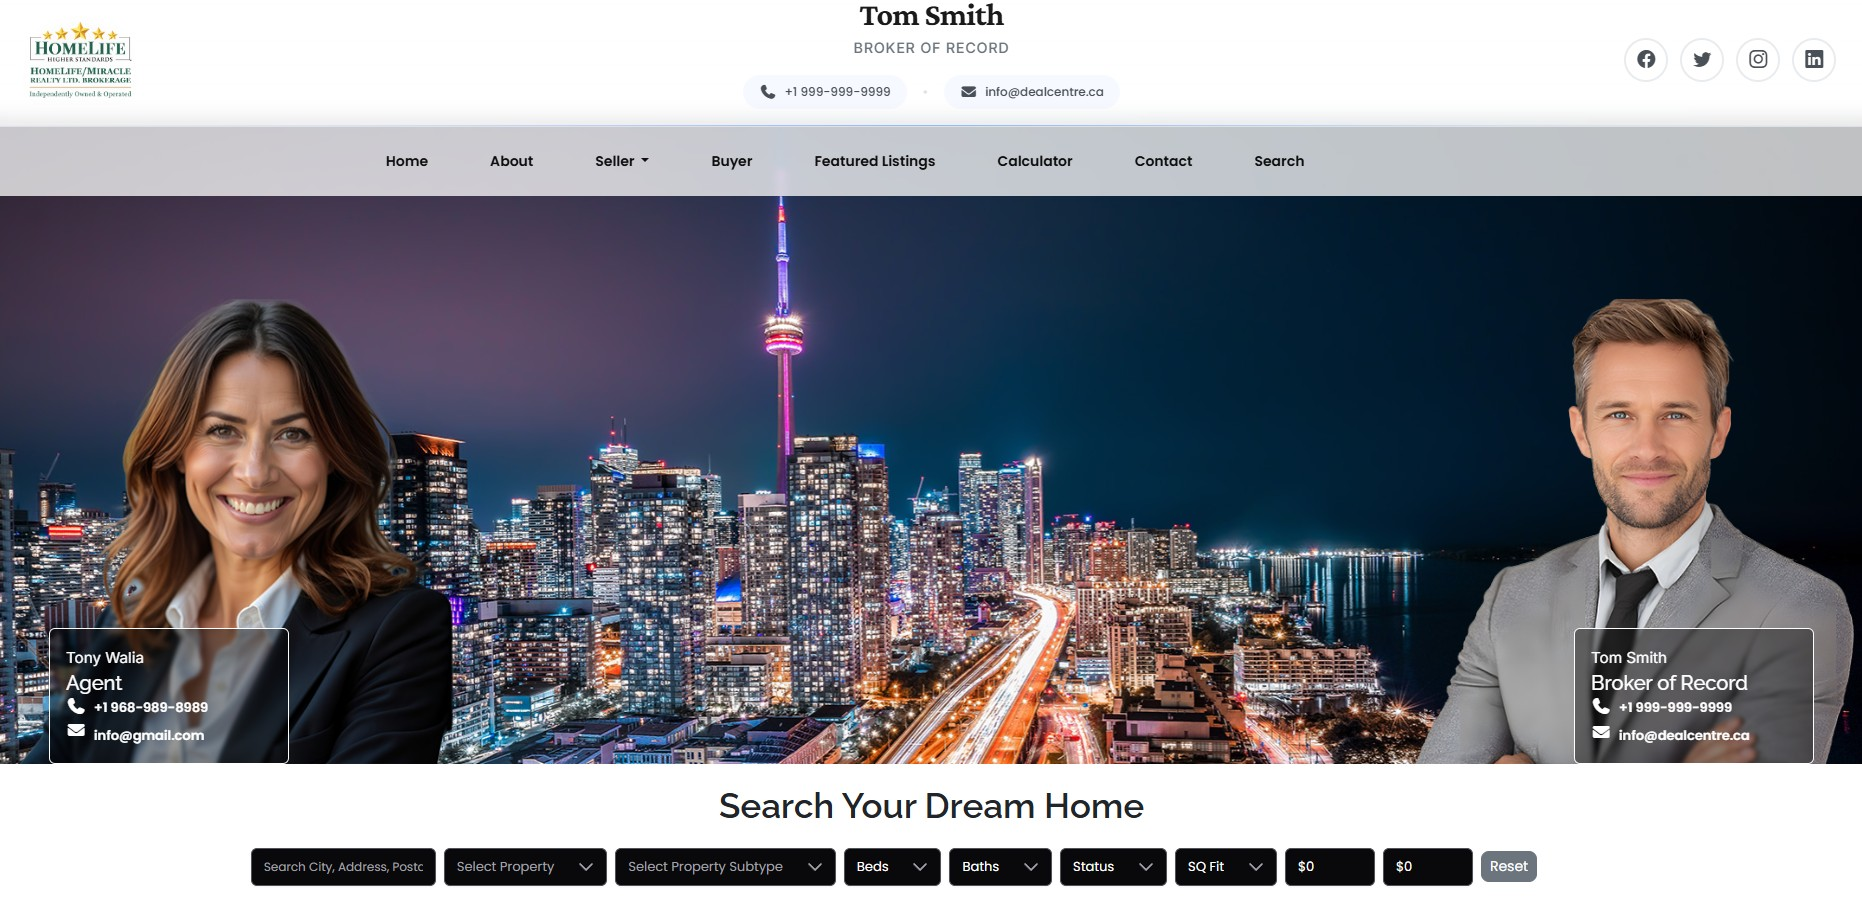
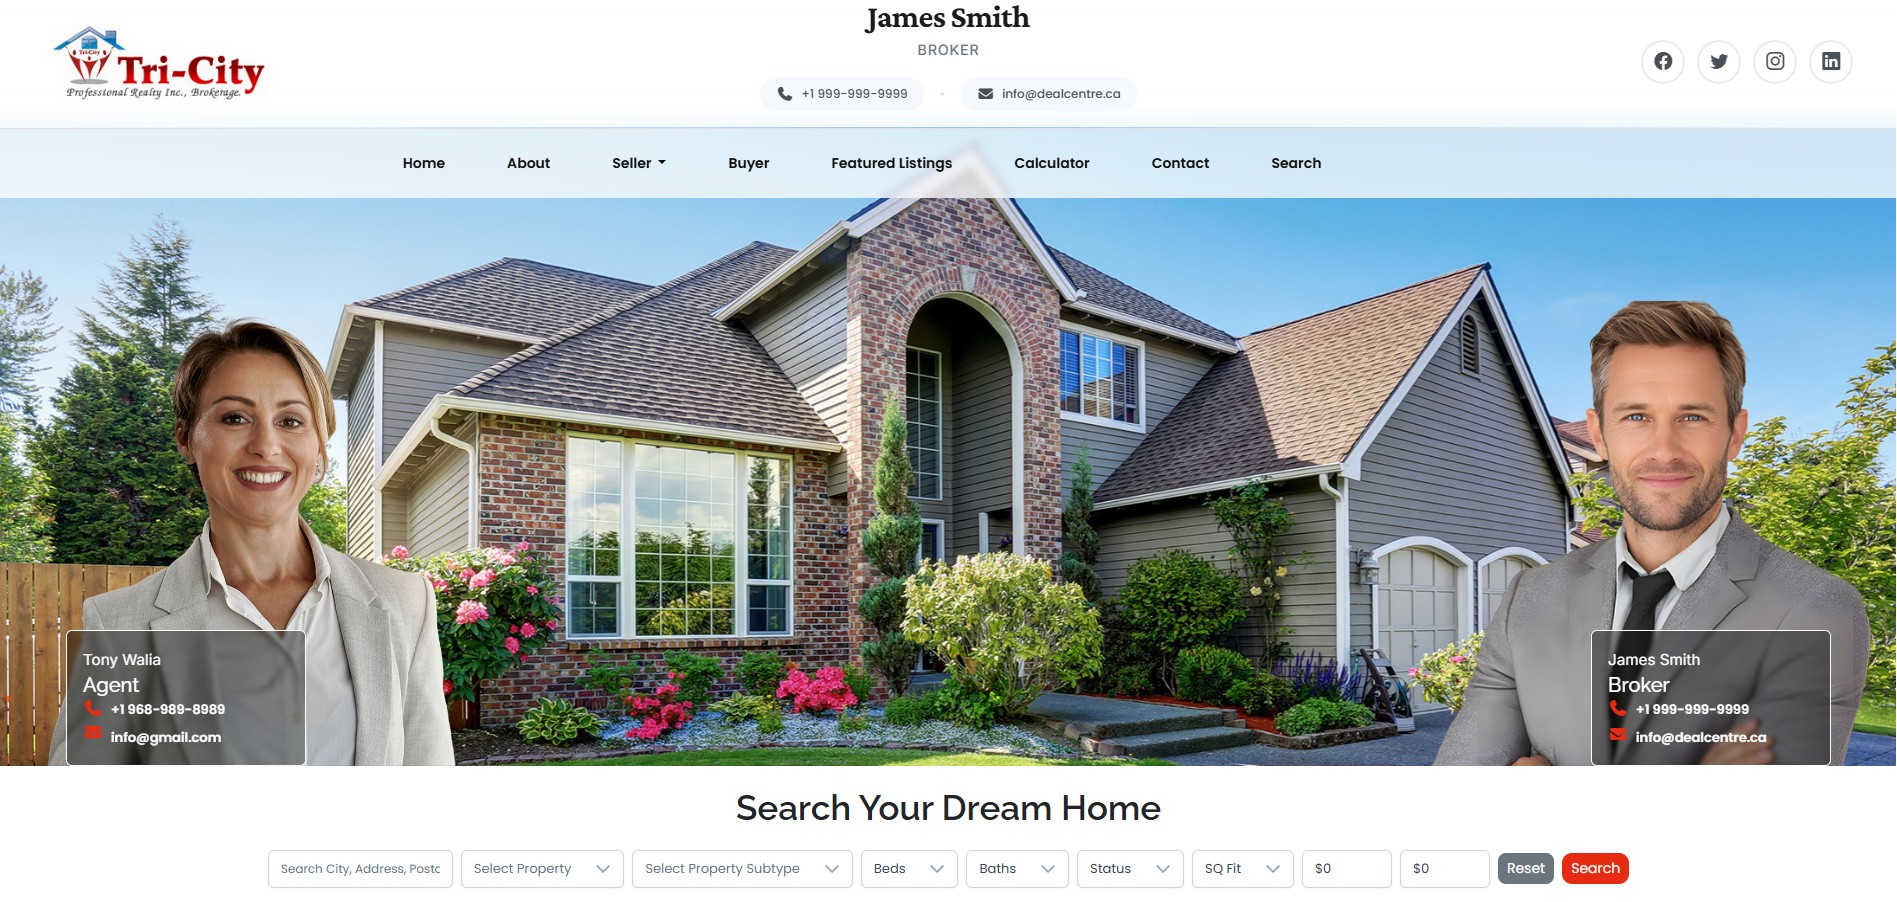
commit

diff --git a/src/app/templates/t12/t12-footer/t12-footer.component.html b/src/app/templates/t12/t12-footer/t12-footer.component.html
@@ -141,7 +141,7 @@
 }
 <!-- Powered by DealCentre -->
 <div class="dealcentre-powered-bar">
-	<a href="https://app.dealcentre.ca" target="_blank" rel="noopener noreferrer" class="dc-link">
+	<a href="https://dealcentre.ca" target="_blank" rel="noopener noreferrer" class="dc-link">
 		<span class="dc-powered-text">Powered by</span>
 		<img src="https://app.dealcentre.ca/assets/images/logo.png" alt="DealCentre" class="dc-logo" />
 		<span class="dc-copy">&copy; DealCentre</span>

diff --git a/src/app/templates/t14/t14-footer/t14-footer.component.html b/src/app/templates/t14/t14-footer/t14-footer.component.html
@@ -141,7 +141,7 @@
 }
 <!-- Powered by DealCentre -->
 <div class="dealcentre-powered-bar">
-	<a href="https://app.dealcentre.ca" target="_blank" rel="noopener noreferrer" class="dc-link">
+	<a href="https://dealcentre.ca" target="_blank" rel="noopener noreferrer" class="dc-link">
 		<span class="dc-powered-text">Powered by</span>
 		<img src="https://app.dealcentre.ca/assets/images/logo.png" alt="DealCentre" class="dc-logo" />
 		<span class="dc-copy">&copy; DealCentre</span>

diff --git a/src/app/templates/t15/t15-footer/t15-footer.component.html b/src/app/templates/t15/t15-footer/t15-footer.component.html
@@ -141,7 +141,7 @@
 }
 <!-- Powered by DealCentre -->
 <div class="dealcentre-powered-bar">
-	<a href="https://app.dealcentre.ca" target="_blank" rel="noopener noreferrer" class="dc-link">
+	<a href="https://dealcentre.ca" target="_blank" rel="noopener noreferrer" class="dc-link">
 		<span class="dc-powered-text">Powered by</span>
 		<img src="https://app.dealcentre.ca/assets/images/logo.png" alt="DealCentre" class="dc-logo" />
 		<span class="dc-copy">&copy; DealCentre</span>

diff --git a/src/app/templates/t16/t16-footer/t16-footer.component.html b/src/app/templates/t16/t16-footer/t16-footer.component.html
@@ -141,7 +141,7 @@
 }
 <!-- Powered by DealCentre -->
 <div class="dealcentre-powered-bar">
-	<a href="https://app.dealcentre.ca" target="_blank" rel="noopener noreferrer" class="dc-link">
+	<a href="https://dealcentre.ca" target="_blank" rel="noopener noreferrer" class="dc-link">
 		<span class="dc-powered-text">Powered by</span>
 		<img src="https://app.dealcentre.ca/assets/images/logo.png" alt="DealCentre" class="dc-logo" />
 		<span class="dc-copy">&copy; DealCentre</span>

diff --git a/src/app/templates/t17/t17-footer/t17-footer.component.html b/src/app/templates/t17/t17-footer/t17-footer.component.html
@@ -141,7 +141,7 @@
 }
 <!-- Powered by DealCentre -->
 <div class="dealcentre-powered-bar">
-	<a href="https://app.dealcentre.ca" target="_blank" rel="noopener noreferrer" class="dc-link">
+	<a href="https://dealcentre.ca" target="_blank" rel="noopener noreferrer" class="dc-link">
 		<span class="dc-powered-text">Powered by</span>
 		<img src="https://app.dealcentre.ca/assets/images/logo.png" alt="DealCentre" class="dc-logo" />
 		<span class="dc-copy">&copy; DealCentre</span>

diff --git a/src/app/templates/t18/t18-footer/t18-footer.component.html b/src/app/templates/t18/t18-footer/t18-footer.component.html
@@ -141,7 +141,7 @@
 }
 <!-- Powered by DealCentre -->
 <div class="dealcentre-powered-bar">
-	<a href="https://app.dealcentre.ca" target="_blank" rel="noopener noreferrer" class="dc-link">
+	<a href="https://dealcentre.ca" target="_blank" rel="noopener noreferrer" class="dc-link">
 		<span class="dc-powered-text">Powered by</span>
 		<img src="https://app.dealcentre.ca/assets/images/logo.png" alt="DealCentre" class="dc-logo" />
 		<span class="dc-copy">&copy; DealCentre</span>

diff --git a/src/app/templates/t19/t19-footer/t19-footer.component.html b/src/app/templates/t19/t19-footer/t19-footer.component.html
@@ -141,7 +141,7 @@
 }
 <!-- Powered by DealCentre -->
 <div class="dealcentre-powered-bar">
-	<a href="https://app.dealcentre.ca" target="_blank" rel="noopener noreferrer" class="dc-link">
+	<a href="https://dealcentre.ca" target="_blank" rel="noopener noreferrer" class="dc-link">
 		<span class="dc-powered-text">Powered by</span>
 		<img src="https://app.dealcentre.ca/assets/images/logo.png" alt="DealCentre" class="dc-logo" />
 		<span class="dc-copy">&copy; DealCentre</span>

diff --git a/src/app/templates/t2/t2-footer/t2-footer.component.html b/src/app/templates/t2/t2-footer/t2-footer.component.html
@@ -156,7 +156,7 @@
 }
 <!-- Powered by DealCentre -->
 <div class="dealcentre-powered-bar">
-	<a href="https://app.dealcentre.ca" target="_blank" rel="noopener noreferrer" class="dc-link">
+	<a href="https://dealcentre.ca" target="_blank" rel="noopener noreferrer" class="dc-link">
 		<span class="dc-powered-text">Powered by</span>
 		<img src="https://app.dealcentre.ca/assets/images/logo.png" alt="DealCentre" class="dc-logo" />
 		<span class="dc-copy">&copy; DealCentre</span>

diff --git a/src/app/templates/t20/t20-footer/t20-footer.component.html b/src/app/templates/t20/t20-footer/t20-footer.component.html
@@ -141,7 +141,7 @@
 }
 <!-- Powered by DealCentre -->
 <div class="dealcentre-powered-bar">
-	<a href="https://app.dealcentre.ca" target="_blank" rel="noopener noreferrer" class="dc-link">
+	<a href="https://dealcentre.ca" target="_blank" rel="noopener noreferrer" class="dc-link">
 		<span class="dc-powered-text">Powered by</span>
 		<img src="https://app.dealcentre.ca/assets/images/logo.png" alt="DealCentre" class="dc-logo" />
 		<span class="dc-copy">&copy; DealCentre</span>

diff --git a/src/app/templates/t21/t21-footer/t21-footer.component.html b/src/app/templates/t21/t21-footer/t21-footer.component.html
@@ -141,7 +141,7 @@
 }
 <!-- Powered by DealCentre -->
 <div class="dealcentre-powered-bar">
-	<a href="https://app.dealcentre.ca" target="_blank" rel="noopener noreferrer" class="dc-link">
+	<a href="https://dealcentre.ca" target="_blank" rel="noopener noreferrer" class="dc-link">
 		<span class="dc-powered-text">Powered by</span>
 		<img src="https://app.dealcentre.ca/assets/images/logo.png" alt="DealCentre" class="dc-logo" />
 		<span class="dc-copy">&copy; DealCentre</span>

diff --git a/src/app/templates/t22/t22-footer/t22-footer.component.html b/src/app/templates/t22/t22-footer/t22-footer.component.html
@@ -141,7 +141,7 @@
 }
 <!-- Powered by DealCentre -->
 <div class="dealcentre-powered-bar">
-	<a href="https://app.dealcentre.ca" target="_blank" rel="noopener noreferrer" class="dc-link">
+	<a href="https://dealcentre.ca" target="_blank" rel="noopener noreferrer" class="dc-link">
 		<span class="dc-powered-text">Powered by</span>
 		<img src="https://app.dealcentre.ca/assets/images/logo.png" alt="DealCentre" class="dc-logo" />
 		<span class="dc-copy">&copy; DealCentre</span>

diff --git a/src/app/templates/t23/t23-footer/t23-footer.component.html b/src/app/templates/t23/t23-footer/t23-footer.component.html
@@ -141,7 +141,7 @@
 }
 <!-- Powered by DealCentre -->
 <div class="dealcentre-powered-bar">
-	<a href="https://app.dealcentre.ca" target="_blank" rel="noopener noreferrer" class="dc-link">
+	<a href="https://dealcentre.ca" target="_blank" rel="noopener noreferrer" class="dc-link">
 		<span class="dc-powered-text">Powered by</span>
 		<img src="https://app.dealcentre.ca/assets/images/logo.png" alt="DealCentre" class="dc-logo" />
 		<span class="dc-copy">&copy; DealCentre</span>
